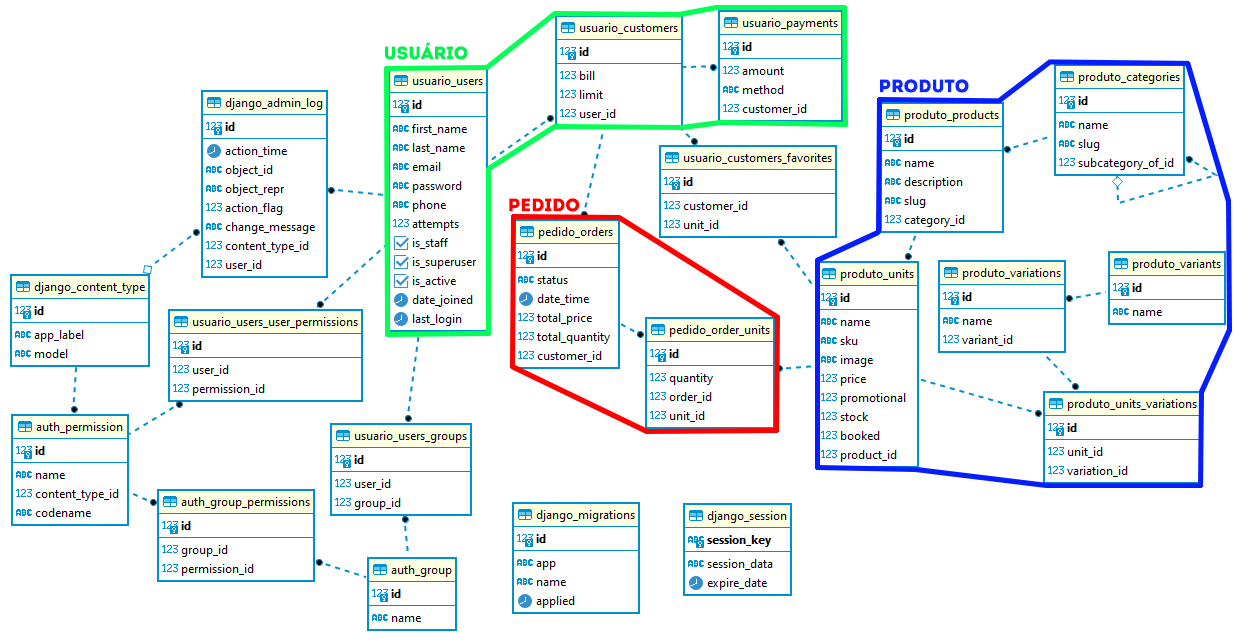
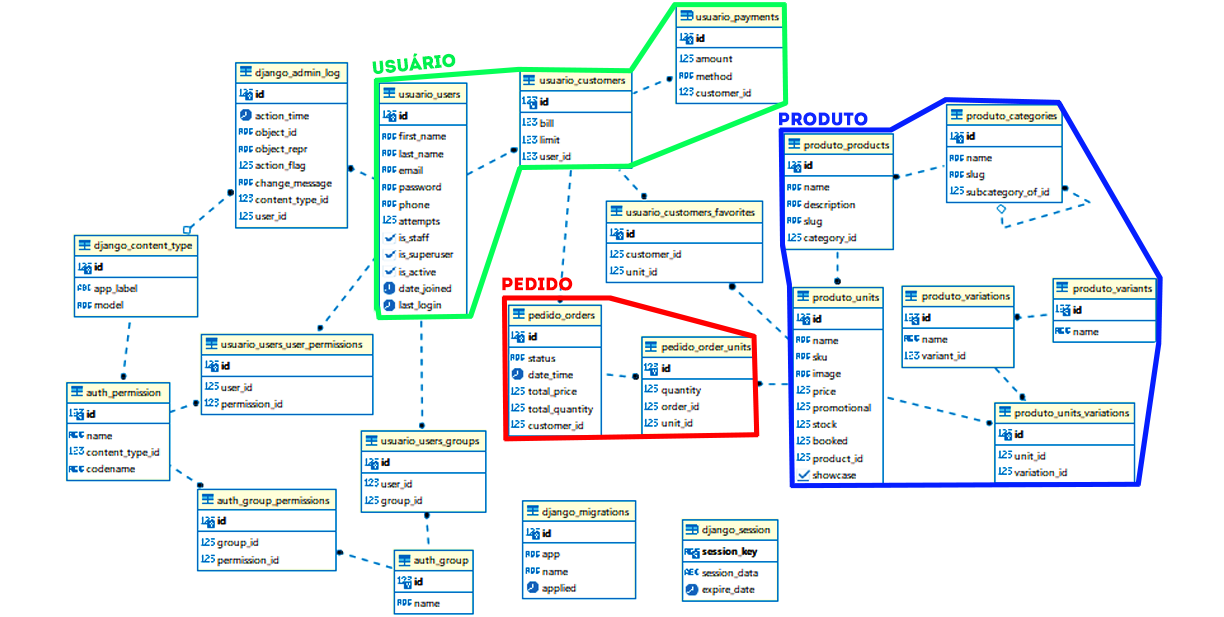
criando campo para mostrar produto

diff --git a/project/usuario/migrations/0001_initial.py b/project/usuario/migrations/0001_initial.py
@@ -23,7 +23,7 @@ class Migration(migrations.Migration):
                 ('first_name', models.CharField(max_length=50, verbose_name='Primeiro Nome')),
                 ('last_name', models.CharField(blank=True, default=None, max_length=120, null=True, verbose_name='Último Nome')),
                 ('email', models.EmailField(max_length=320, unique=True, verbose_name='Email')),
-                ('password', models.CharField(max_length=240, verbose_name='Senha')),
+                ('password', models.CharField(max_length=240, editable=False, verbose_name='Senha')),
                 ('phone', models.CharField(max_length=14, verbose_name='Celular')),
                 ('attempts', models.PositiveSmallIntegerField(default=0, help_text='Tentativas de login com a senha incorreta. Caso ultrapasse o limite definido nas configurações o usuário precisará redefini-la', verbose_name='Tentativas')),
                 ('is_staff', models.BooleanField(default=False, help_text='Define se o usuário pode acessar o site Administrativo.', verbose_name='Administrador')),

diff --git a/project/produto/models/Unit.py b/project/produto/models/Unit.py
@@ -7,7 +7,7 @@ class Unit(AbstractName):
 
     price = models.DecimalField("Preço", max_digits=5, decimal_places=2)
     promotional = models.DecimalField("Preço promocional", max_digits=5, decimal_places=2, 
-       blank=True, null=True
+       blank=True, null=True, help_text='Preço acima do original que mostrará riscado.'
     )
 
     stock = models.PositiveIntegerField("Estoque")
@@ -16,7 +16,8 @@ class Unit(AbstractName):
     product = models.ForeignKey("Product", on_delete=models.RESTRICT, 
         verbose_name='Produto'
     )
-    variations = models.ManyToManyField("Variation", blank=True, related_name='variations_units')
+    variations = models.ManyToManyField("Variation", blank=True, related_name='variations_units', verbose_name='Variações')
+    showcase = models.BooleanField("Mostrar na vitrine", default=True)
 
     def __avaliable(self) -> int:
         return self.stock - self.booked

diff --git a/project/produto/migrations/0002_unit_showcase_alter_unit_promotional.py b/project/produto/migrations/0002_unit_showcase_alter_unit_promotional.py
@@ -1,0 +1,23 @@
+# Generated by Django 4.2.4 on 2023-09-11 13:24
+
+from django.db import migrations, models
+
+
+class Migration(migrations.Migration):
+
+    dependencies = [
+        ('produto', '0001_initial'),
+    ]
+
+    operations = [
+        migrations.AddField(
+            model_name='unit',
+            name='showcase',
+            field=models.BooleanField(default=True, verbose_name='Mostrar na vitrine'),
+        ),
+        migrations.AlterField(
+            model_name='unit',
+            name='promotional',
+            field=models.DecimalField(blank=True, decimal_places=2, help_text='Preço acima do original que mostrará riscado.', max_digits=5, null=True, verbose_name='Preço promocional'),
+        ),
+    ]

diff --git a/project/produto/migrations/0001_initial.py b/project/produto/migrations/0001_initial.py
@@ -78,7 +78,7 @@ class Migration(migrations.Migration):
                 ('stock', models.PositiveIntegerField(verbose_name='Estoque')),
                 ('booked', models.PositiveIntegerField(default=0, verbose_name='Reservado')),
                 ('product', models.ForeignKey(on_delete=django.db.models.deletion.RESTRICT, to='produto.product', verbose_name='Produto')),
-                ('variations', models.ManyToManyField(blank=True, related_name='variations_units', to='produto.variation')),
+                ('variations', models.ManyToManyField(blank=True, related_name='variations_units', to='produto.variation', verbose_name='Variações')),
             ],
             options={
                 'verbose_name': 'Unidade',

diff --git a/project/usuario/models/User.py b/project/usuario/models/User.py
@@ -9,7 +9,7 @@ class User(AbstractUser):
     first_name = models.CharField("Primeiro Nome", max_length=50, blank=False, null=False)
     last_name = models.CharField("Último Nome", max_length=120, blank=True, null=True, default=None)
     email = models.EmailField("Email", max_length=320, blank=False, null=False, unique=True)
-    password = models.CharField("Senha", max_length=240)
+    password = models.CharField("Senha", max_length=240, editable=False)
     phone = models.CharField("Celular", max_length=14)
     attempts = models.PositiveSmallIntegerField(
         "Tentativas", default=0,

diff --git a/project/produto/models/Category.py b/project/produto/models/Category.py
@@ -9,9 +9,9 @@ class Category(AbstractName):
         verbose_name='Subcategoria de ', blank=True, null=True
     )
 
-    # def save(self):
-    #     self.slug = slugify(self.name)
-    #     super(Product, self).save()
+    def save(self):
+        self.slug = slugify(self.name)
+        super(Product, self).save()
 
     def __str__(self) -> str:
         return self.name

diff --git a/project/produto/models/Product.py b/project/produto/models/Product.py
@@ -10,9 +10,9 @@ class Product(AbstractName):
         verbose_name="Categoria"
     )
 
-    # def save(self):
-    #     self.slug = slugify(self.name)
-    #     super(Product, self).save()
+    def save(self):
+        self.slug = slugify(self.name)
+        super(Product, self).save()
 
     def __str__(self) -> str:
         return self.name

diff --git a/project/pedido/admin.py b/project/pedido/admin.py
@@ -7,7 +7,6 @@ class OrderUnitInline(admin.TabularInline):
     extra = 1
 
 class OrderAdmin(admin.ModelAdmin):
-    list_display = ['name']
     inlines = [
         OrderUnitInline
     ]

diff --git a/project/produto/domain/repositories/product_repository.py b/project/produto/domain/repositories/product_repository.py
@@ -1,0 +1,5 @@
+from produto.models.Product import Product
+from produto.models.Unit import Unit
+
+def get_all():
+    return Unit.objects.filter(showcase=True).all()
